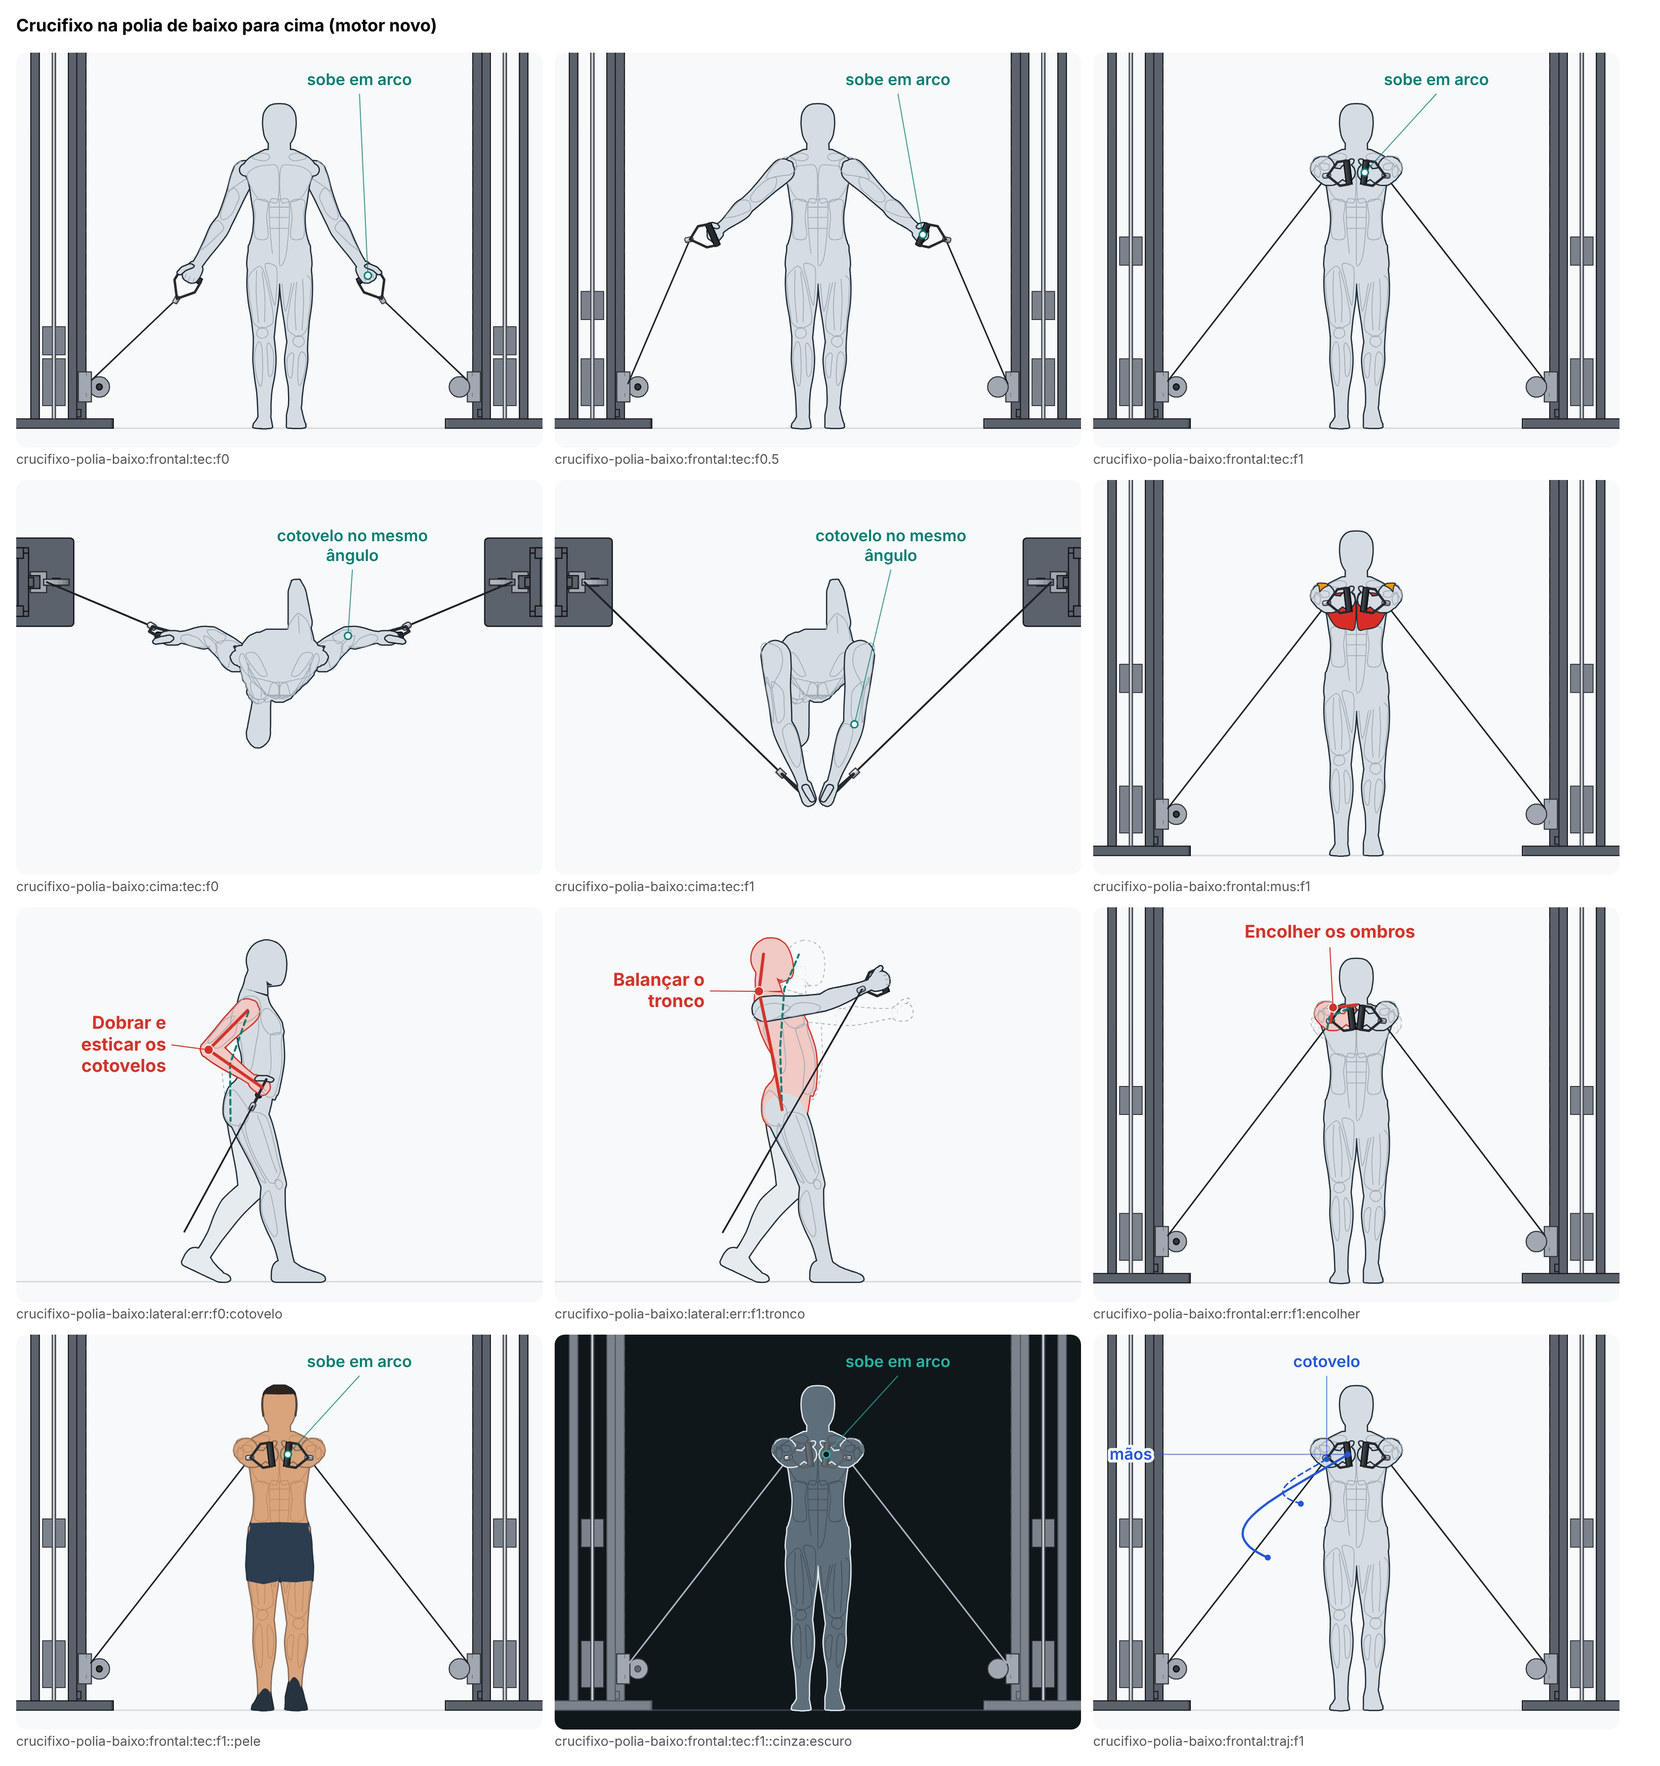
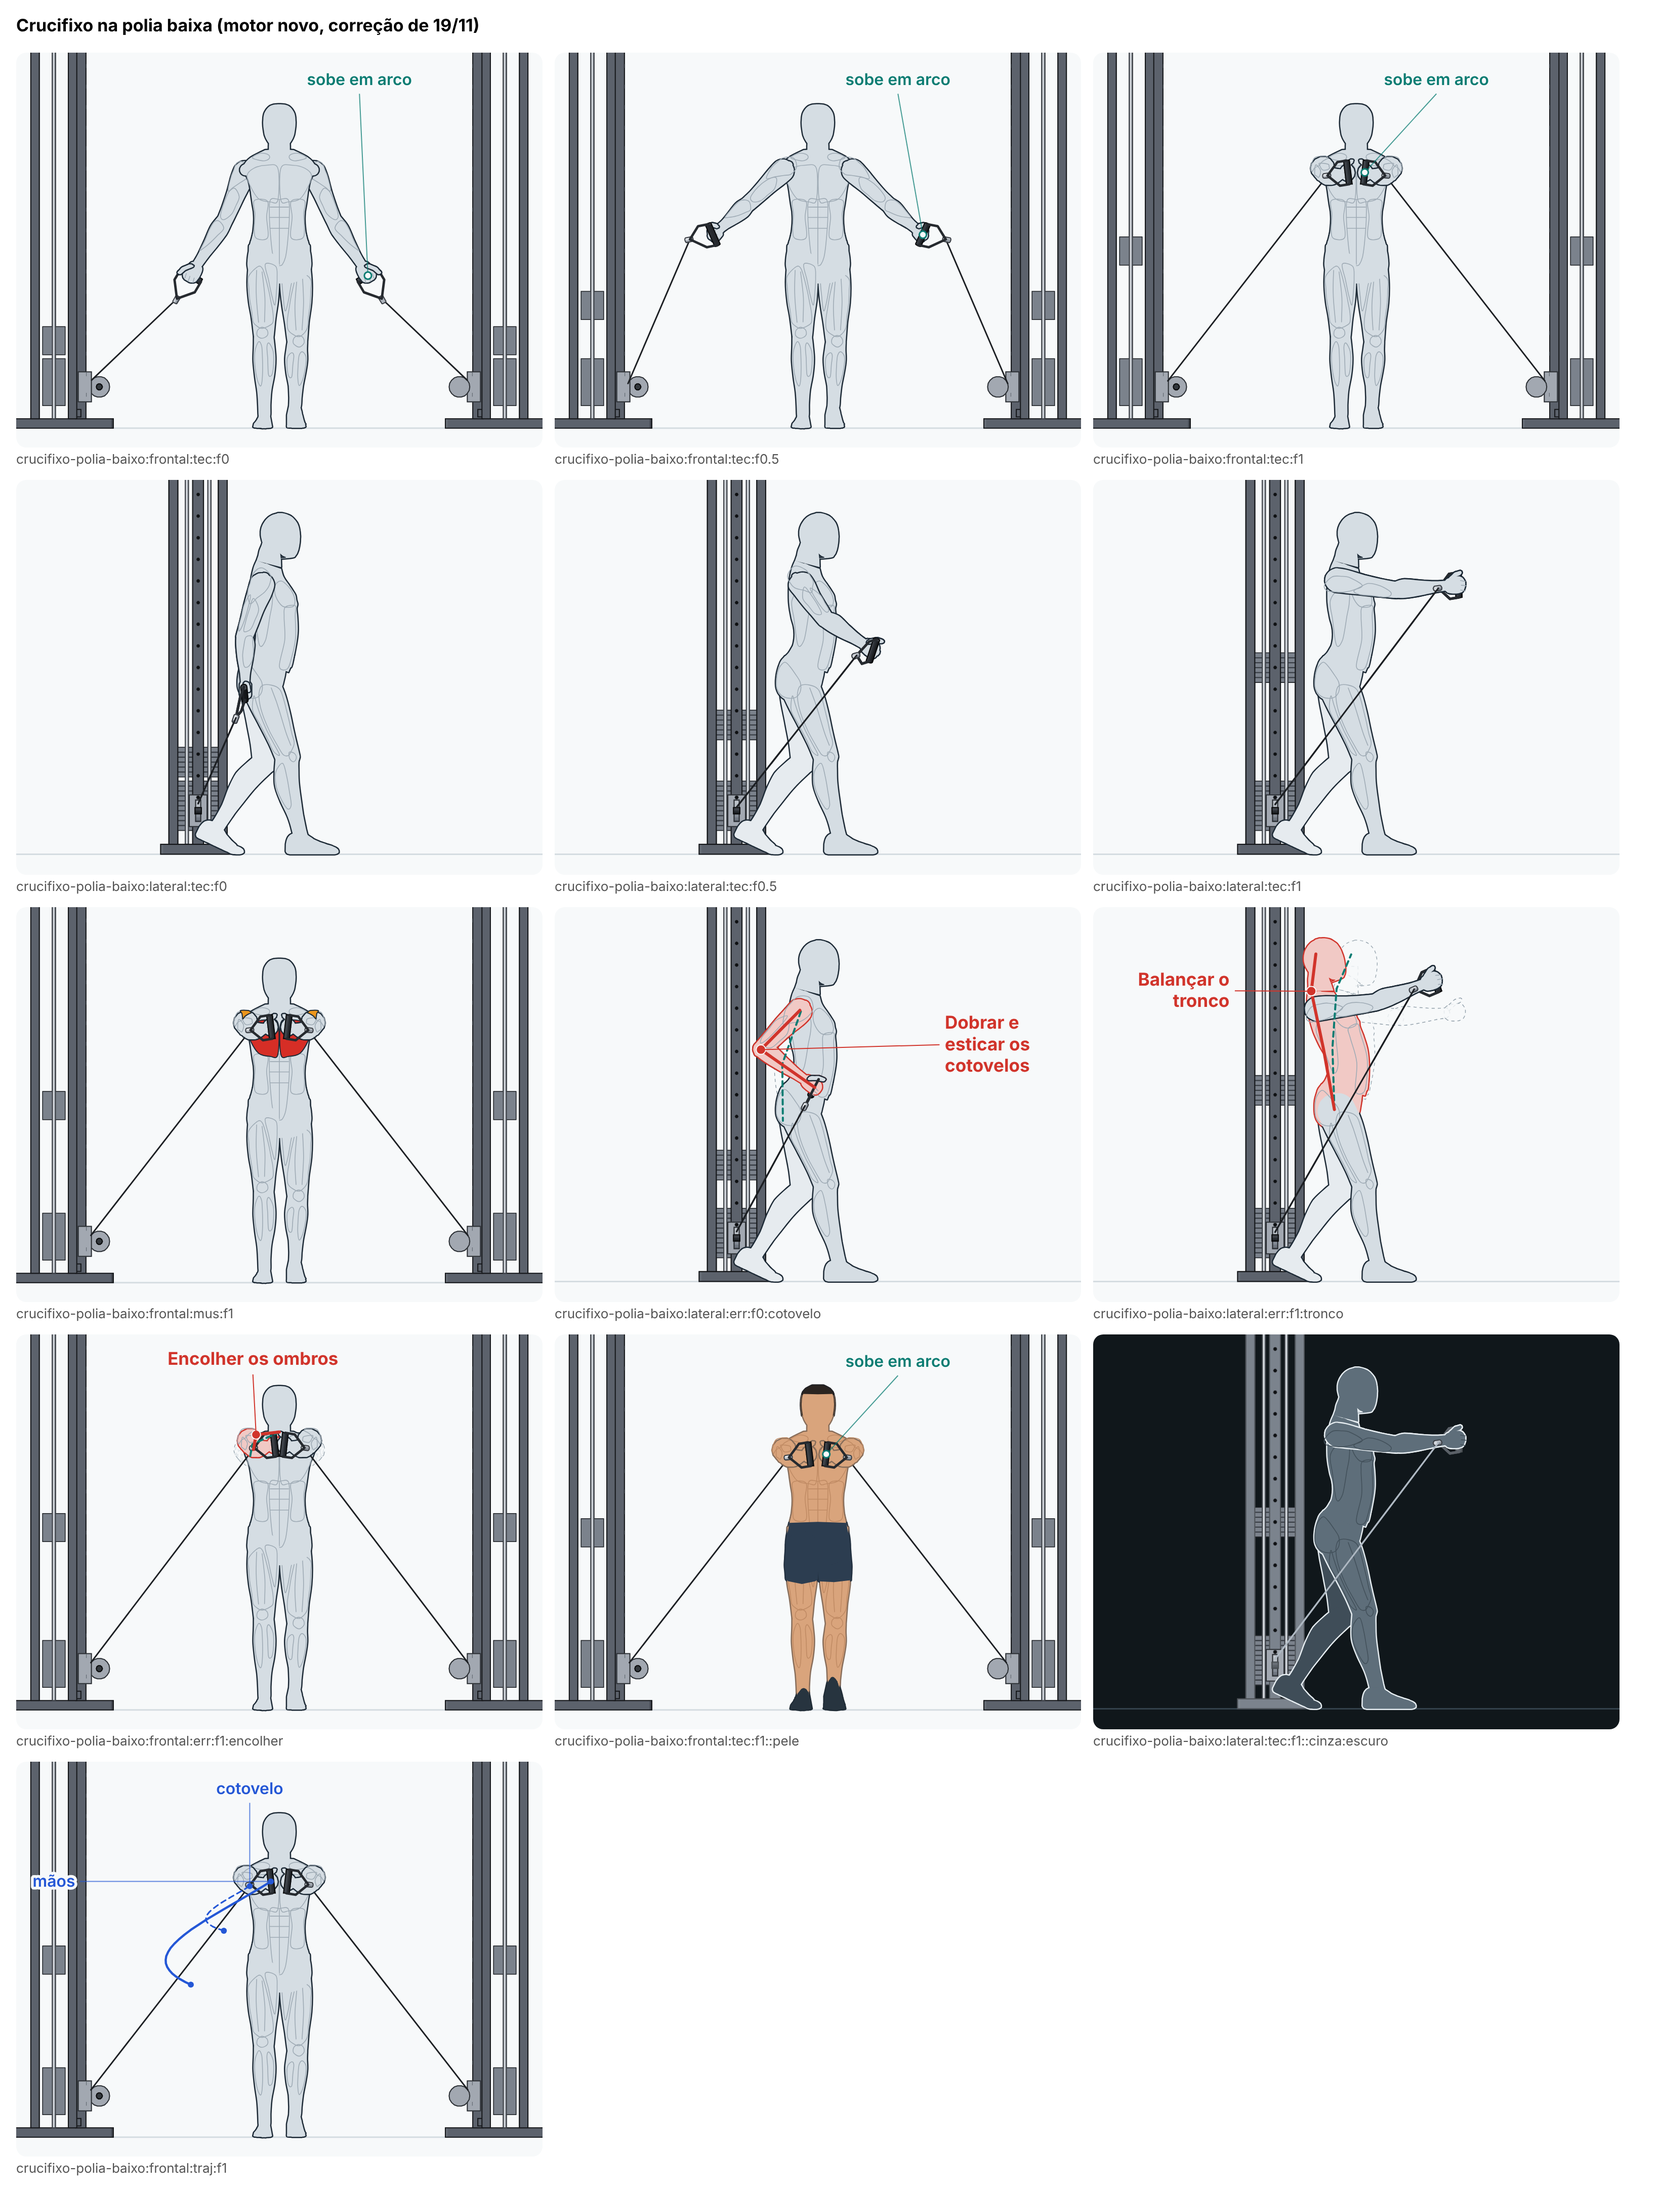
Crucifixo na polia baixa: de lado, os cabos terminam na roldana da coluna de longe (auditoria G7)
De lado, as colunas de cenário não eram desenhadas e os cabos acabavam no ar,
a 24-26 cm do chão. Acréscimo na peça da coluna: `deLado` (desligado por
padrão) desenha a coluna de cenário também de perfil, como equipamento, atrás
do corpo e no enquadramento até `cortadaEmCima`. Aqui a coluna de longe o liga
(até 1 m no quadro, linha nova da ficha); as duas roldanas caem no mesmo ponto
da tela. De frente nada muda.

Regra nova `crucifixo-baixo-cabos-terminam-na-roldana`: em cada vista do guia,
no ciclo e nos erros, cada cabo termina na roldana de uma coluna que aparece.
Antes: de lado, nenhuma coluna. Depois: a saída de cada cabo a até 3,6 cm do
centro da roldana (raio 5,5).

Claude-Session: https://claude.ai/code/session_01YRzts8DBGbsca9onebcMt1

diff --git a/src/engine/novo/regras/crucifixo-polia-baixo.ts b/src/engine/novo/regras/crucifixo-polia-baixo.ts
@@ -4,7 +4,12 @@
 // regra comum "tronco-quase-parado" (../conferir.ts).
 import { f1 } from '../conferir-util';
 import type { Regra } from '../conferir-util';
+import { VISTAS, naTela } from '../desenho';
+import type { IdVista } from '../desenho';
+import { torreNaVista } from '../equipamento';
 import type { Quadro } from '../movimento';
+import { centroDaRoldana } from '../pecas';
+import { obj } from '../tabelas';
 import { dist, dot, sub } from '../vec';
 
 /** O quadro do fim: o ciclo começa parado embaixo (o primeiro quadro); o fim é o quadro em que a mão fica mais longe dali. */
@@ -16,6 +21,39 @@ function fim(q: Quadro[]): Quadro {
 }
 
 export const REGRAS_CRUCIFIXO_POLIA_BAIXO: Record<string, Regra> = {
+  'crucifixo-baixo-cabos-terminam-na-roldana': (_q, corpo, ex) => {
+    // Em cada vista do guia (as do exercício e as dos erros), no ciclo (5 instantes) e em cada erro na vista dele (no
+    // começo, no meio e no fim): cada cabo termina, na tela, na roldana de uma coluna que aparece naquela vista (a
+    // distância da saída do cabo ao centro da roldana mais perto, até o raio dela: o cabo sai na borda, com
+    // meio centímetro de folga). De lado, as colunas de cenário não
+    // apareciam e os cabos terminavam no ar, perto do chão (auditoria de 18/11, G7).
+    if (!ex) return { medido: 'a regra precisa do exercício (a conferência o passa)', ok: false };
+    const raio = obj('torre', 'roldanaDiam') / 2;
+    const vistas = [...new Set<IdVista>([...(ex.vistas as IdVista[]), ...ex.ficha.erros.map((er) => er.vista as IdVista)])];
+    const casos: { vista: IdVista; q: Quadro }[] = [];
+    for (const u of [0, 0.25, 0.5, 0.75, 1]) {
+      const q = ex.quadro(corpo, u);
+      for (const vista of vistas) casos.push({ vista, q });
+    }
+    for (const er of ex.ficha.erros) for (const u of [0, 0.5, 1]) casos.push({ vista: er.vista as IdVista, q: ex.quadro(corpo, u, er.id) });
+    const pior = new Map<IdVista, { d: number; colunas: number; alto: number }>();
+    for (const { vista, q } of casos) {
+      const cam = VISTAS[vista];
+      const roldanas = (q.pecas ?? []).flatMap((p) => (p.t === 'torre' && torreNaVista(p, cam) ? [naTela(cam, centroDaRoldana(p.torre))] : []));
+      const v = pior.get(vista) ?? { d: -1, colunas: 1e9, alto: 0 };
+      v.colunas = Math.min(v.colunas, roldanas.length);
+      for (const id of ['cabo', 'cabo2']) {
+        const s = q.marcas[`${id}.saida`]!;
+        const t = naTela(cam, s);
+        const d = roldanas.length ? Math.min(...roldanas.map((r) => Math.hypot(r[0] - t[0], r[1] - t[1]))) : 1e9;
+        v.d = Math.max(v.d, d);
+        v.alto = Math.max(v.alto, s[1]);
+      }
+      pior.set(vista, v);
+    }
+    const partes = [...pior].map(([vista, v]) => `${vista}: ${v.colunas ? `${v.colunas === 1 ? '1 coluna aparece' : `${v.colunas} colunas aparecem`}, e a saída de cada cabo fica no máximo ${f1(v.d)} cm do centro da roldana mais perto, na tela` : `nenhuma coluna aparece, e os cabos terminam no ar, a até ${f1(v.alto)} cm do chão`}`);
+    return { medido: `${partes.join('; ')} (raio da roldana: ${f1(raio)} cm)`, ok: [...pior.values()].every((v) => v.colunas > 0 && v.d <= raio + 0.5) };
+  },
   'crucifixo-baixo-polias-embaixo': (q) => {
     const x = q[0]!;
     const ys = x.fios.map((y) => y.id).filter((id) => x.marcas[`${id}.roldana`]).map((id) => x.marcas[`${id}.roldana`]![1]);

diff --git a/src/engine/novo/equipamento.ts b/src/engine/novo/equipamento.ts
@@ -222,6 +222,11 @@ function desenhar(chave: string | null, cam: Camera, id: string, monta: (C: Cena
 }
 
 /** O equipamento de um quadro, no desenho dos cartões do app. `id` distingue os filtros de sombra de cada <svg>. */
+/** Se a coluna aparece nesta vista: a de cenário não aparece de perfil, salvo com `deLado` (acréscimo de 19/11/2026). */
+export function torreNaVista(p: Extract<Peca, { t: 'torre' }>, cam: Camera): boolean {
+  const dePerfil = Math.abs(cam.para[0]) > 0.95;
+  return !(p.cenario && dePerfil && !p.deLado);
+}
 export function equipamentoRealista(pecas: Peca[], cam: Camera, tema: Tema, id: string): { itens: Item[]; defs: string } {
   const M = MATERIAIS[tema];
   // a sombra no chão só aparece nas vistas inclinadas: de perfil o chão é uma linha, e de cima, a pino, a sombra
@@ -260,13 +265,15 @@ export function equipamentoRealista(pecas: Peca[], cam: Camera, tema: Tema, id: 
     }
     else if (p.t === 'colchonete') junta(desenhar(fixa('colchonete', p), cam, pid, (C) => colchonete(C, M, p)));
     else if (p.t === 'torre') {
-      const dePerfil = Math.abs(cam.para[0]) > 0.95;
-      if (p.cenario && dePerfil) return;
+      if (!torreNaVista(p, cam)) return;
       const a = desenhar(fixa('torre', p.torre), cam, pid, (C) => torreFixa(C, M, p.torre, comSombra)),
         b = desenhar(null, cam, `${pid}m`, (C) => torreMovel(C, M, p.torre, p.subida));
-      // como cenário, a coluna vai para uma camada atrás do corpo (e do corpo tracejado dos erros) e fora do enquadramento
-      const fundo = (r: { itens: Item[]; defs: string }) => (p.cenario ? { itens: r.itens.map((it) => (it.camada >= 1 ? { ...it, camada: 0.4 } : it)), defs: r.defs } : r);
-      if (p.cortadaEmCima === undefined || p.cenario) {
+      // como cenário, a coluna vai para uma camada atrás do corpo (e do corpo tracejado dos erros) e fora do enquadramento.
+      // A de cenário com `deLado`, de perfil, é desenhada como equipamento (na ordem certa e, com `cortadaEmCima`, no
+      // enquadramento até essa altura): os textos não ficam por cima dela (acréscimo de 19/11/2026)
+      const cenario = p.cenario && !(p.deLado && Math.abs(cam.para[0]) > 0.95);
+      const fundo = (r: { itens: Item[]; defs: string }) => (cenario ? { itens: r.itens.map((it) => (it.camada >= 1 ? { ...it, camada: 0.4 } : it)), defs: r.defs } : r);
+      if (p.cortadaEmCima === undefined || cenario) {
         junta(fundo(a));
         junta(fundo(b));
       } else {

diff --git a/src/engine/novo/exercicios/crucifixo-polia-baixo.ts b/src/engine/novo/exercicios/crucifixo-polia-baixo.ts
@@ -109,7 +109,13 @@ function quadro(corpo: Corpo, u: number, erro?: string): Quadro {
   const e = pose(corpo, c, u, erro);
   const es = (['R', 'L'] as Lado[]).map((k, i) => estriboNaMao(e, k, c.cabos[i]!.torre));
   const col = colunasECabos(c.cabos, es.map((x) => x.elo), c.repouso, f('pilha.folga'), true);
-  const pecas: Peca[] = [...col.pecas!.filter((p) => p.t === 'torre'), ...es.map((x) => x.peca), ...col.pecas!.filter((p) => p.t !== 'torre')];
+  // as colunas são cenário (de frente, pintadas atrás do corpo e cortadas pelo quadro); de lado, a coluna de cenário
+  // não aparecia e os cabos terminavam no ar, perto do chão (auditoria de 18/11, G7). A coluna de longe (a esquerda: de
+  // lado, quem olha está à direita da pessoa) passa a aparecer também de perfil, atrás do corpo, e os dois cabos terminam
+  // na roldana dela (as duas roldanas caem no mesmo lugar da tela). A de perto ficaria na frente do corpo e segue de fora.
+  // De lado, a coluna de longe entra no quadro até `coluna.deLado.noQuadro` (os textos não ficam por cima dela)
+  const torres = col.pecas!.filter((p) => p.t === 'torre').map((p) => (p.torre === c.cabos[1]!.torre ? { ...p, deLado: true, cortadaEmCima: f('coluna.deLado.noQuadro') } : p));
+  const pecas: Peca[] = [...torres, ...es.map((x) => x.peca), ...col.pecas!.filter((p) => p.t !== 'torre')];
   const marcas: Record<string, V3> = { ...col.marcas, 'mao.R': e.lado.R.pegada, 'mao.L': e.lado.L.pegada };
   return { esq: e, prims: [chao(-110, 110, -90, 90), ...es.flatMap((x) => x.prims), ...col.prims], pecas, fios: col.fios, cargas: [], marcas, vies: { maoR: 1, maoL: 1 } };
 }

diff --git a/src/engine/novo/pecas.ts b/src/engine/novo/pecas.ts
@@ -137,6 +137,14 @@ export type Peca =
        * exercícios na polia baixa: sem isso, a coluna de 2,39 m deixava o corpo pequeno no quadro.
        */
       cortadaEmCima?: number;
+      /**
+       * `deLado` (acréscimo de 19/11/2026, desligado por padrão): a coluna de cenário que fica do lado de longe é
+       * desenhada também de perfil, como equipamento (na ordem certa, atrás do corpo, e no enquadramento até
+       * `cortadaEmCima`), e o cabo termina na roldana dela. Sem isso, de perfil o cabo terminava no ar (o crucifixo na
+       * polia baixa). Nas outras vistas ela segue como cenário. A coluna do lado de perto continua de fora de perfil
+       * (ficaria na frente do corpo); ela cai no mesmo lugar da tela que a de longe.
+       */
+      deLado?: boolean;
     }
   | { t: 'estribo'; pegada: V3; eixo: V3; elo: V3 }
   | { t: 'cabo'; a: V3; b: V3 }

diff --git a/docs/revisoes/animacao-nova/lote-A5/crucifixo-polia-baixo.md b/docs/revisoes/animacao-nova/lote-A5/crucifixo-polia-baixo.md
@@ -55,3 +55,27 @@ Do crucifixo na polia: o cotovelo "levemente dobrado e fixo" (20° o ciclo todo)
 - **A pilha sobe 48 cm** no ciclo (o cabo anda 96 cm: das mãos ao lado do quadril até o peito, com as polias embaixo). É a conta certa da relação 2:1, mas é muito mais que nos outros exercícios na polia; numa coluna de 2,39 m ela cabe.
 - **No erro de encolher os ombros,** de frente, a diferença (5 cm) se lê, mas a mancha vermelha é pequena (só o ombro e o braço de perto ficam em vermelho).
 - **De frente, no fim**, os braços vêm para a frente e ficam encurtados pela perspectiva (as mãos se encontram na frente do peito), como no crucifixo na polia aprovado.
+
+## Correção de 19/11 (auditoria)
+
+A auditoria das fases A e B (G7) achou que, de lado, os cabos terminam no ar: a saída de cada cabo fica a 24 a 26 cm do chão e a 85 cm da borda do quadro, sem coluna nenhuma. As duas colunas eram cenário, e `equipamento.ts` não desenha coluna de cenário de perfil. A animação saiu da aprovação até a correção.
+
+**A mudança.**
+
+1. **Peça comum, acréscimo:** a coluna (`{ t: 'torre' }` em `pecas.ts`) ganhou o campo opcional `deLado` (desligado por padrão). A coluna de cenário com `deLado`, vista de perfil, é desenhada como equipamento: na ordem certa de pintura (ela fica atrás do corpo) e, com `cortadaEmCima`, no enquadramento até essa altura, para os textos não ficarem por cima dela. Nas outras vistas continua cenário. `equipamento.ts` passou a perguntar a `torreNaVista` (exportada) se a coluna aparece; para quem não usa o campo, a resposta é a mesma de antes.
+2. **No exercício:** a coluna de longe (a esquerda; de lado, quem olha está à direita da pessoa) leva `deLado` e `cortadaEmCima` = `coluna.deLado.noQuadro` (100 cm, linha nova da ficha, selo desenho). De lado, as duas roldanas caem no mesmo ponto da tela: os dois cabos terminam na roldana dela, atrás do corpo. A coluna de perto continua de fora de perfil (ficaria na frente do corpo e o esconderia).
+3. De frente nada muda (o quadro e o enquadramento de frente são os mesmos; o preparo só mudou na vista de lado: o quadro anda 7 cm para a esquerda, do mesmo tamanho).
+
+**A regra nova** (`crucifixo-baixo-cabos-terminam-na-roldana`, em `regras/crucifixo-polia-baixo.ts`): em cada vista do guia (frente e lado, as do exercício e as dos erros), no ciclo (5 instantes) e em cada erro na vista dele (começo, meio e fim), conta as colunas que aparecem naquela vista e mede, na tela, a distância da saída de cada um dos dois cabos (o direito e o esquerdo) ao centro da roldana mais perto, que tem de ficar até o raio dela (o cabo sai na borda) com meio centímetro de folga.
+
+| | antes (`1828c0e`) | depois |
+|---|---|---|
+| de lado: colunas que aparecem | **0** (os cabos terminam no ar, a até 25,6 cm do chão) | 1 (a de longe) |
+| de lado: saída de cada cabo ao centro da roldana, na tela | sem roldana | até 3,6 cm (raio 5,5) |
+| de frente: colunas; saída ao centro da roldana | 2; 5,5 cm | 2; 5,5 cm |
+
+Rodada no estado de antes (o exercício de `1828c0e`, com a regra nova), a conferência dá **1 falha** (esta regra). No estado novo: **0 falhas**, os mesmos avisos de antes (a lista dos provisórios ganhou `coluna.deLado.noQuadro`).
+
+**Olhado nos quadros** (`quadros/crucifixo-polia-baixo.png`): de lado, no começo, no meio e no fim, nos erros "Dobrar e esticar os cotovelos" e "Balançar o tronco", no tema escuro e no cor de pele, a coluna fica atrás da pessoa, com a pilha, e os cabos descem da mão à roldana embaixo dela. O cabo de perto passa na frente da perna de perto (está mais perto de quem olha); o de longe some atrás do corpo. De frente, igual a antes.
+
+**O que ainda não ficou bom.** Com a coluna no quadro, o nome do erro "Dobrar e esticar os cotovelos" passou para o lado direito do corpo (do lado esquerdo não cabe mais entre a coluna e a borda), e a linha dele atravessa o peito até o cotovelo, que fica atrás do tronco. A coluna de perto não aparece de lado: é um recorte de desenho (ela estaria entre quem olha e a pessoa), dito aqui para não parecer que há uma coluna só.
